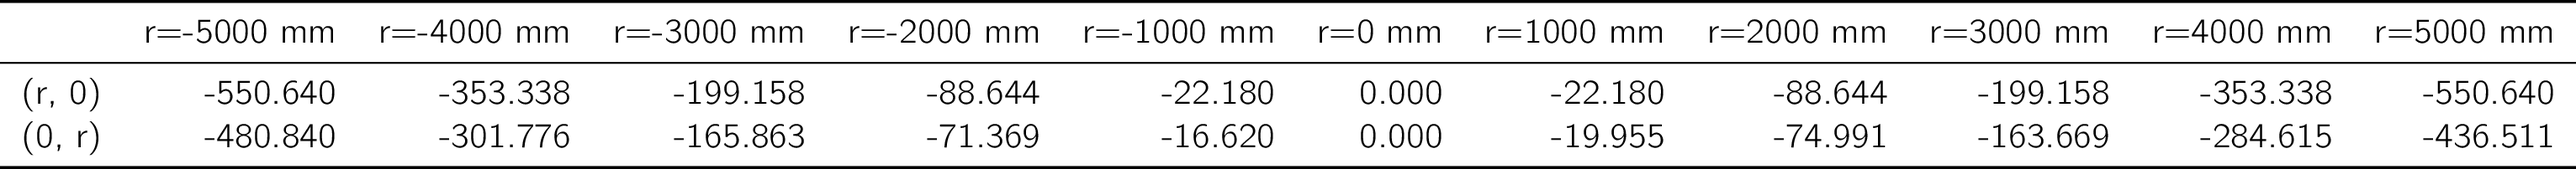
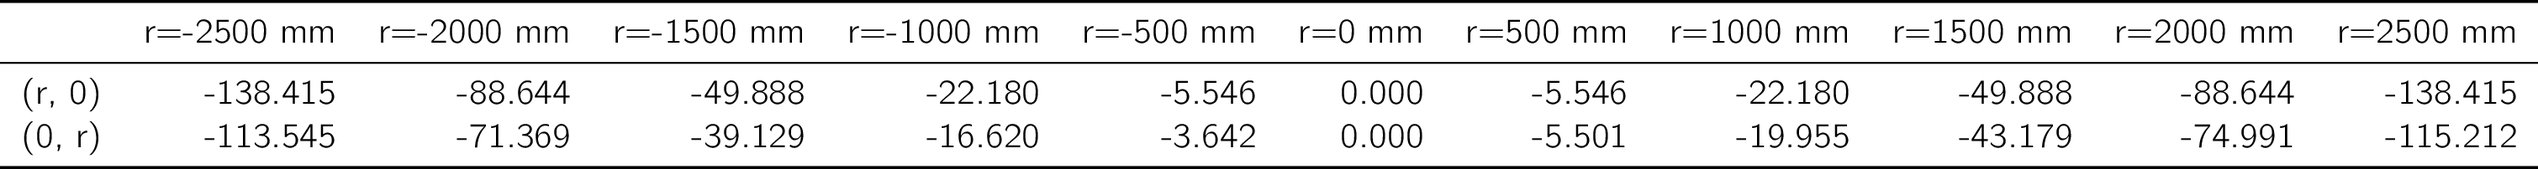
updated sag tables

diff --git a/design_analysis/TMP_Mech_var8A_20210329/CAD/sag_tables/prime_surface_values_table.tex b/design_analysis/TMP_Mech_var8A_20210329/CAD/sag_tables/prime_surface_values_table.tex
@@ -3,10 +3,10 @@
 \usepackage{cmbright}
 \begin{document}\begin{tabular}{lrrrrrrrrrrr}
 \toprule
-{} &  r=-5000 mm &  r=-4000 mm &  r=-3000 mm &  r=-2000 mm &  r=-1000 mm &  r=0 mm &  r=1000 mm &  r=2000 mm &  r=3000 mm &  r=4000 mm &  r=5000 mm \\
+{} &  r=-2500 mm &  r=-2000 mm &  r=-1500 mm &  r=-1000 mm &  r=-500 mm &  r=0 mm &  r=500 mm &  r=1000 mm &  r=1500 mm &  r=2000 mm &  r=2500 mm \\
 \midrule
-(r, 0) &    -550.640 &    -353.338 &    -199.158 &     -88.644 &     -22.180 &   0.000 &    -22.180 &    -88.644 &   -199.158 &   -353.338 &   -550.640 \\
-(0, r) &    -480.840 &    -301.776 &    -165.863 &     -71.369 &     -16.620 &   0.000 &    -19.955 &    -74.991 &   -163.669 &   -284.615 &   -436.511 \\
+(r, 0) &    -138.415 &     -88.644 &     -49.888 &     -22.180 &     -5.546 &   0.000 &    -5.546 &    -22.180 &    -49.888 &    -88.644 &   -138.415 \\
+(0, r) &    -113.545 &     -71.369 &     -39.129 &     -16.620 &     -3.642 &   0.000 &    -5.501 &    -19.955 &    -43.179 &    -74.991 &   -115.212 \\
 \bottomrule
 \end{tabular}
 

diff --git a/design_analysis/TMP_Mech_var8A_20210329/CAD/sag_tables/second_surface_values_table.tex b/design_analysis/TMP_Mech_var8A_20210329/CAD/sag_tables/second_surface_values_table.tex
@@ -3,10 +3,10 @@
 \usepackage{cmbright}
 \begin{document}\begin{tabular}{lrrrrrrrrrrr}
 \toprule
-{} &  r=-5000 mm &  r=-4000 mm &  r=-3000 mm &  r=-2000 mm &  r=-1000 mm &  r=0 mm &  r=1000 mm &  r=2000 mm &  r=3000 mm &  r=4000 mm &  r=5000 mm \\
+{} &  r=-2500 mm &  r=-2000 mm &  r=-1500 mm &  r=-1000 mm &  r=-500 mm &  r=0 mm &  r=500 mm &  r=1000 mm &  r=1500 mm &  r=2000 mm &  r=2500 mm \\
 \midrule
-(r, 0) &   -1357.094 &    -913.684 &    -533.698 &    -243.469 &     -61.808 &   0.000 &    -61.808 &   -243.469 &   -533.698 &   -913.684 &  -1357.094 \\
-(0, r) &   -1088.101 &    -655.578 &    -345.220 &    -141.366 &     -30.250 &   0.000 &    -40.636 &   -144.071 &   -304.113 &   -516.462 &   -778.710 \\
+(r, 0) &    -376.012 &    -243.469 &    -138.186 &     -61.808 &    -15.511 &   0.000 &   -15.511 &    -61.808 &   -138.186 &   -243.469 &   -376.012 \\
+(0, r) &    -230.884 &    -141.366 &     -75.002 &     -30.250 &     -5.685 &   0.000 &   -12.007 &    -40.636 &    -84.935 &   -144.071 &   -217.329 \\
 \bottomrule
 \end{tabular}
 

diff --git a/ZOS_API_scripts/LAT_analysis/mirror_prescription/S4LAT_plot_mirror_shape_and_mk_table.py b/ZOS_API_scripts/LAT_analysis/mirror_prescription/S4LAT_plot_mirror_shape_and_mk_table.py
@@ -96,7 +96,7 @@ mirror_names, mirror_surfaces = zmx.get_mirror_surfaces(TheSystem)  # noqa
 
 xlim = [-5000, 5000]
 ylim = [-5000, 5000]
-semiDia = 5000
+semiDia = 2500
 
 sags = [] * len(mirror_surfaces)
 
@@ -106,7 +106,7 @@ for j in range(len(mirror_surfaces)):
 
     s = lde.GetSurfaceAt(surface)
 
-    rs_coarse = np.arange(-semiDia, semiDia+10, 1000)
+    rs_coarse = np.arange(-semiDia, semiDia+10, 500)
     sag_x_coarse = np.array([lde.GetSag(surface, r, 0.0, 0, 0)[1]
                              for r in rs_coarse])
     sag_y_coarse = np.array([lde.GetSag(surface, 0.0, r, 0, 0)[1]
